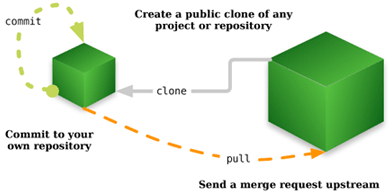
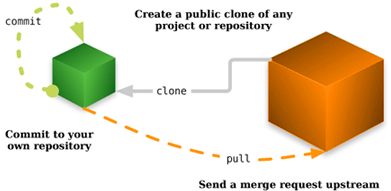
New frontpage graphics, courtesy of Simon Bohlin

Changed region(s): [[0.6752, 0.1571, 0.9821, 0.8115]]

diff --git a/public/stylesheets/base.css b/public/stylesheets/base.css
@@ -804,13 +804,20 @@ ul.diff_stats small.deletions   { color: #DC0000; }
   margin-bottom: 4em;
   margin-left: auto;
   margin-right: auto;
-  width: 910px;
+  width: 888px;
   text-align:center;
 }
 
 #site_overview table td, #site_overview table th {
   text-align:center;
-  padding: 10px;
+}
+
+#site_overview table td.left, #site_overview table th.left {
+  border-right: 1px dotted #ccc;
+  padding-right: 10px;
+}
+#site_overview table td.right, #site_overview table th.right {
+ padding-left: 10px; 
 }
 
 #site_overview p.create_account_hint {
